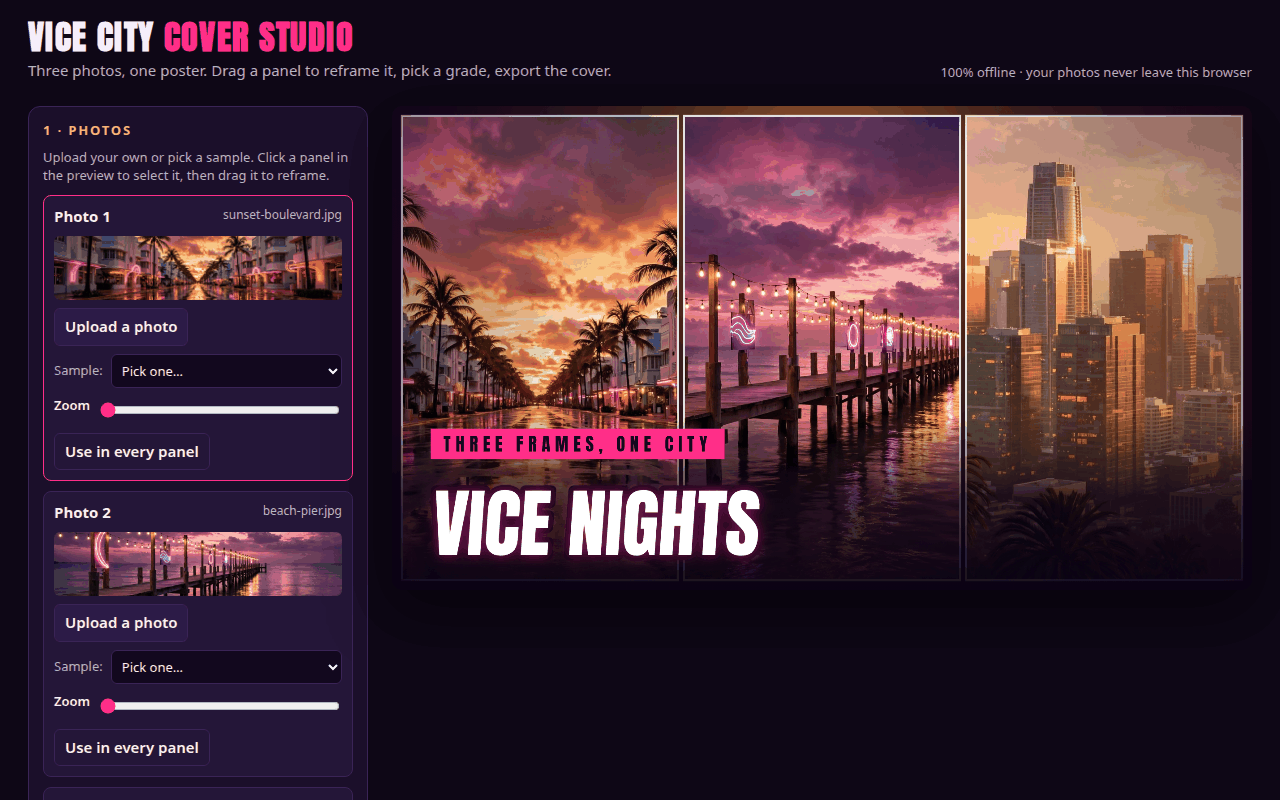
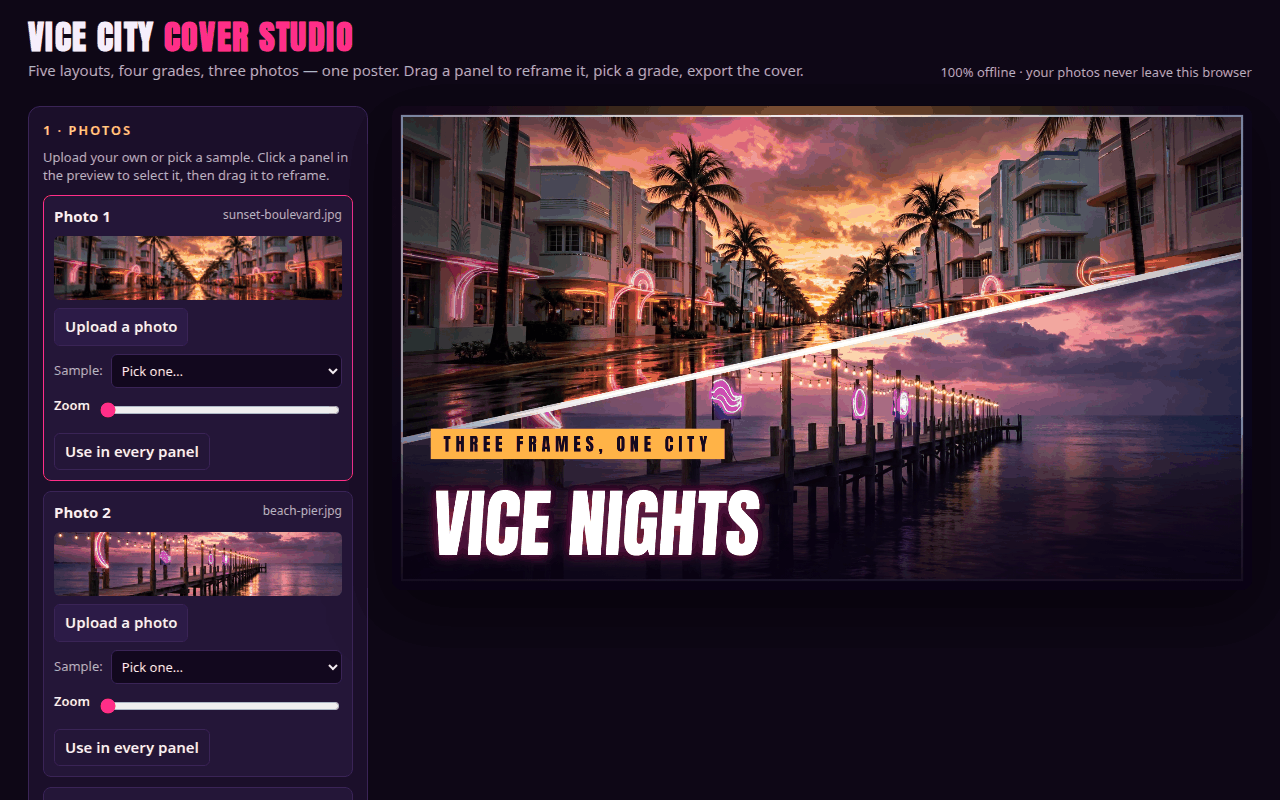
Vice City Cover Studio v2: diagonal-split layout, Gold Hour grade, bolder seam

diff --git a/app/src/cover.js b/app/src/cover.js
@@ -29,12 +29,21 @@ export const GRADES = {
     accent: '#8ef5e0',
     glow: 'rgba(150, 90, 255, 0.50)',
   },
+  gold: {
+    label: 'Gold Hour',
+    washTop: 'rgba(255, 190, 80, 0.16)',
+    washBottom: 'rgba(0, 140, 150, 0.38)',
+    band: '#ffb347',
+    accent: '#2dd4c4',
+    glow: 'rgba(255, 180, 60, 0.55)',
+  },
 };
 
 export const LAYOUTS = {
   triptych: { label: 'Triptych · 3 panels', panels: 3 },
   grid: { label: 'Grid · 2 × 2', panels: 4 },
   hero: { label: 'Hero + strip', panels: 3 },
+  diagonal: { label: 'Diagonal split · 2 panels', panels: 2 },
   single: { label: 'Single photo', panels: 1 },
 };
 
@@ -74,6 +83,23 @@ export function posterPanels(layout, w, h) {
       { x: edge + heroW + gap, y: edge + sideH + gap, w: sideW, h: sideH },
     ];
   }
+  if (layout === 'diagonal') {
+    // Two quadrilaterals split by one rising diagonal: the top panel
+    // holds the sky, the bottom one the street. Each panel keeps its
+    // bounding box in x/y/w/h (for photo cover-fit and hit-testing) and
+    // its true shape in poly (for clipping and the white seam).
+    const cutTop = edge + innerH * 0.30;
+    const cutBottom = edge + innerH * 0.70;
+    const top = {
+      x: edge, y: edge, w: innerW, h: cutBottom - edge,
+      poly: [[edge, edge], [edge + innerW, edge], [edge + innerW, cutTop], [edge, cutBottom]],
+    };
+    const bottom = {
+      x: edge, y: cutTop, w: innerW, h: edge + innerH - cutTop,
+      poly: [[edge, cutBottom], [edge + innerW, cutTop], [edge + innerW, edge + innerH], [edge, edge + innerH]],
+    };
+    return [top, bottom];
+  }
   return [{ x: edge, y: edge, w: innerW, h: innerH }];
 }
 
@@ -96,7 +122,12 @@ function paintPhoto(ctx, img, panel, zoom, fx, fy) {
   const dy = panel.y + (panel.h - dh) * fy;
   ctx.save();
   ctx.beginPath();
-  ctx.rect(panel.x, panel.y, panel.w, panel.h);
+  if (panel.poly) {
+    panel.poly.forEach(([px, py], i) => (i === 0 ? ctx.moveTo(px, py) : ctx.lineTo(px, py)));
+    ctx.closePath();
+  } else {
+    ctx.rect(panel.x, panel.y, panel.w, panel.h);
+  }
   ctx.clip();
   ctx.drawImage(img, dx, dy, dw, dh);
   ctx.restore();
@@ -224,8 +255,27 @@ export function paintPoster(canvas, state) {
     }
     ctx.strokeStyle = 'rgba(255, 255, 255, 0.85)';
     ctx.lineWidth = Math.max(2, gap * 0.35);
-    ctx.strokeRect(panel.x, panel.y, panel.w, panel.h);
+    if (panel.poly) {
+      ctx.beginPath();
+      panel.poly.forEach(([px, py], i) => (i === 0 ? ctx.moveTo(px, py) : ctx.lineTo(px, py)));
+      ctx.closePath();
+      ctx.stroke();
+    } else {
+      ctx.strokeRect(panel.x, panel.y, panel.w, panel.h);
+    }
   });
+
+  // The diagonal split gets its slash redrawn once, thicker, so the cut
+  // reads as one bold design line instead of two panel edges meeting.
+  if (state.layout === 'diagonal' && panels[0].poly) {
+    const seam = panels[0].poly;
+    ctx.beginPath();
+    ctx.moveTo(seam[3][0], seam[3][1]);
+    ctx.lineTo(seam[2][0], seam[2][1]);
+    ctx.strokeStyle = 'rgba(255, 255, 255, 0.92)';
+    ctx.lineWidth = Math.max(3, gap * 1.1);
+    ctx.stroke();
+  }
 
   const wash = ctx.createLinearGradient(0, 0, w * 0.25, h);
   wash.addColorStop(0, grade.washTop);

diff --git a/app/src/main.js b/app/src/main.js
@@ -203,6 +203,7 @@ function buildPickers() {
     btn.type = 'button';
     btn.className = `chip${state.layout === key ? ' on' : ''}`;
     btn.textContent = def.label;
+    if (key === 'diagonal') btn.dataset.new = '1';
     btn.addEventListener('click', () => {
       state.layout = key;
       buildPickers();
@@ -217,6 +218,7 @@ function buildPickers() {
     btn.className = `chip${state.grade === key ? ' on' : ''}`;
     btn.style.setProperty('--swatch', def.band);
     btn.textContent = def.label;
+    if (key === 'gold') btn.dataset.new = '1';
     btn.addEventListener('click', () => {
       state.grade = key;
       buildPickers();
@@ -239,6 +241,17 @@ function buildPickers() {
   }
 }
 
+/** Ray-casting point-in-polygon test, for the diagonal layout's panels. */
+function pointInPoly(x, y, poly) {
+  let inside = false;
+  for (let i = 0, j = poly.length - 1; i < poly.length; j = i++) {
+    const [xi, yi] = poly[i];
+    const [xj, yj] = poly[j];
+    if ((yi > y) !== (yj > y) && x < ((xj - xi) * (y - yi)) / (yj - yi) + xi) inside = !inside;
+  }
+  return inside;
+}
+
 /** Which panel (and photo) sits under a point on the preview canvas. */
 function panelAt(clientX, clientY) {
   const rect = preview.getBoundingClientRect();
@@ -248,7 +261,10 @@ function panelAt(clientX, clientY) {
   const assignment = panelPhotos(state.layout, state.photos.length);
   for (let i = 0; i < panels.length; i++) {
     const p = panels[i];
-    if (x >= p.x && x <= p.x + p.w && y >= p.y && y <= p.y + p.h) {
+    const inside = p.poly
+      ? pointInPoly(x, y, p.poly)
+      : (x >= p.x && x <= p.x + p.w && y >= p.y && y <= p.y + p.h);
+    if (inside) {
       return { panel: p, photoIndex: assignment[i], x, y };
     }
   }
@@ -320,14 +336,14 @@ async function boot() {
     await document.fonts.load('100px Anton');
   } catch (e) { /* lettering falls back to a heavy sans */ }
   if (shot) {
-    await runShot(shot, query, async (files, text, sub, layout, grade, size) => {
+    await runShot(shot, query, async (files, text, sub, layout, grade, size, zoom) => {
       state.layout = layout;
       state.grade = grade;
       state.title = text;
       state.subtitle = sub;
       state.size = size;
       for (let i = 0; i < files.length; i++) {
-        state.photos[i] = { img: await loadImage(`samples/${files[i]}`), name: files[i], zoom: 1, fx: 0.5, fy: 0.5 };
+        state.photos[i] = { img: await loadImage(`samples/${files[i]}`), name: files[i], zoom: zoom || 1, fx: 0.5, fy: 0.5 };
       }
       buildPickers();
       buildSlots();

diff --git a/main.ts b/main.ts
@@ -1,5 +1,6 @@
 // Vice City Cover Studio: a gta6-cover-art-01 entry (Node 22, standard
-// library only). The app is this directory's app/ folder: plain static
+// library only). v2 adds a fifth layout (diagonal split, clipped to
+// polygons in the poster engine) and a fourth grade (Gold Hour).
 // files a desktop browser loads offline (app/index.html and its ES modules,
 // the Anton font and the sample photos under app/, no library and no
 // network request). This program hands the entry in: it copies app/ and
@@ -10,7 +11,7 @@
 // Outside the grader's container, MAKEFUN_OUTPUT_DIR stands in for /output:
 //   mkdir -p out && MAKEFUN_OUTPUT_DIR=out node main.ts
 
-import { cpSync, existsSync, mkdirSync, writeFileSync } from 'node:fs';
+import { cpSync, existsSync, mkdirSync, readdirSync, statSync, writeFileSync } from 'node:fs';
 import { join } from 'node:path';
 import { fileURLToPath } from 'node:url';
 import { buildDossier } from './vendor/makefun-app.ts';
@@ -40,3 +41,12 @@ writeFileSync(
     app_path_max_bytes: 1000,
   }),
 );
+
+// A short build summary on stdout, so a run's result is visible without
+// opening the dossier: the dossier size is the one number that moves
+// when the app or the screenshots change.
+const dossierBytes = statSync(join(outDir, 'dossier.json')).size;
+const shotFiles = existsSync(join(outDir, 'screenshots'))
+  ? readdirSync(join(outDir, 'screenshots')).filter((f) => /\.(png|jpe?g)$/i.test(f))
+  : [];
+console.log(`wrote ${join(outDir, 'dossier.json')} (${dossierBytes} bytes, ${shotFiles.length} screenshots)`);

diff --git a/app/src/shots.js b/app/src/shots.js
@@ -1,7 +1,8 @@
 // Fixed scenes for screenshots: ?shot=editor shows the page with sample
 // photos loaded; ?shot=cover shows the cover alone, at the export size
 // the `size` query names. `photos` picks comma-separated samples,
-// `caption` the title, `sub` the subtitle, `layout` and `grade` the look.
+// `caption` the title, `sub` the subtitle, `layout` and `grade` the look,
+// `zoom` (1–2.5) the crop of every photo in the scene.
 // window.__shotReady is set once the scene is painted (see main.js).
 export async function runShot(shot, query, setup) {
   const files = (query.get('photos') || 'sunset-boulevard.jpg,beach-pier.jpg,skyline.jpg').split(',').slice(0, 3);
@@ -10,5 +11,6 @@ export async function runShot(shot, query, setup) {
   const layout = query.get('layout') || 'triptych';
   const grade = query.get('grade') || 'sunset';
   const size = query.get('size') || '1920x1080';
-  await setup(files, caption, sub, layout, grade, size);
+  const zoom = Math.min(2.5, Math.max(1, Number(query.get('zoom')) || 1));
+  await setup(files, caption, sub, layout, grade, size, zoom);
 }

diff --git a/app/style.css b/app/style.css
@@ -102,6 +102,17 @@ html, body { margin: 0; min-height: 100%; background: var(--bg); color: var(--in
   cursor: pointer;
 }
 .chip.on { background: var(--pink); border-color: var(--pink); color: #fff; }
+.chip[data-new]::after {
+  content: 'NEW';
+  font-size: 9px;
+  letter-spacing: 0.08em;
+  color: var(--gold);
+  border: 1px solid var(--gold);
+  border-radius: 4px;
+  padding: 1px 4px;
+  margin-left: 6px;
+  vertical-align: 1px;
+}
 #grades .chip::before {
   content: '';
   display: inline-block;

diff --git a/app/index.html b/app/index.html
@@ -10,7 +10,7 @@
 <header class="masthead">
   <div>
     <h1>VICE CITY <span>COVER STUDIO</span></h1>
-    <p>Three photos, one poster. Drag a panel to reframe it, pick a grade, export the cover.</p>
+    <p>Five layouts, four grades, three photos — one poster. Drag a panel to reframe it, pick a grade, export the cover.</p>
   </div>
   <p class="made">100% offline · your photos never leave this browser</p>
 </header>

diff --git a/serve.ts b/serve.ts
@@ -71,4 +71,5 @@ createServer((request, response) => {
   createReadStream(file).pipe(response);
 }).listen(port, '127.0.0.1', () => {
   console.log(`app/ is on http://localhost:${port}`);
+  console.log(`try the editor at http://localhost:${port}/ and a cover at http://localhost:${port}/?shot=cover`);
 });

diff --git a/README.md b/README.md
@@ -4,7 +4,7 @@
 [![rank](https://make.fun/badge/gta6-cover-art-01/JackEasons/makefun-gta6-cover-art-01/rank.svg)](https://make.fun/bounty/gta6-cover-art-01/leaderboard?utm_source=github&utm_medium=readme&utm_campaign=gta6-cover-art-01)
 [![reward](https://make.fun/badge/gta6-cover-art-01/JackEasons/makefun-gta6-cover-art-01/reward.svg)](https://make.fun/bounty/gta6-cover-art-01?utm_source=github&utm_medium=readme&utm_campaign=gta6-cover-art-01)
 
-Vice City Cover Studio: an offline web app that turns up to three of your photos and a caption into a multi-panel GTA-style poster — triptych, 2×2 grid, hero + strip or a single full-bleed photo — with bold Anton display lettering and Vice Sunset, Neon Nights or Palm Dusk colour grades, exported as a PNG in 1080×1080, 1080×1350 or 1920×1080. Drag any panel to reframe its photo, zoom each photo, or fill every panel with one photo. Your photos never leave the browser.
+Vice City Cover Studio: an offline web app that turns up to three of your photos and a caption into a multi-panel GTA-style poster — triptych, 2×2 grid, hero + strip, diagonal split or a single full-bleed photo — with bold Anton display lettering and Vice Sunset, Neon Nights, Palm Dusk or Gold Hour colour grades, exported as a PNG in 1080×1080, 1080×1350 or 1920×1080. Drag any panel to reframe its photo, zoom each photo, or fill every panel with one photo. Your photos never leave the browser.
 
 ## Run it
 
